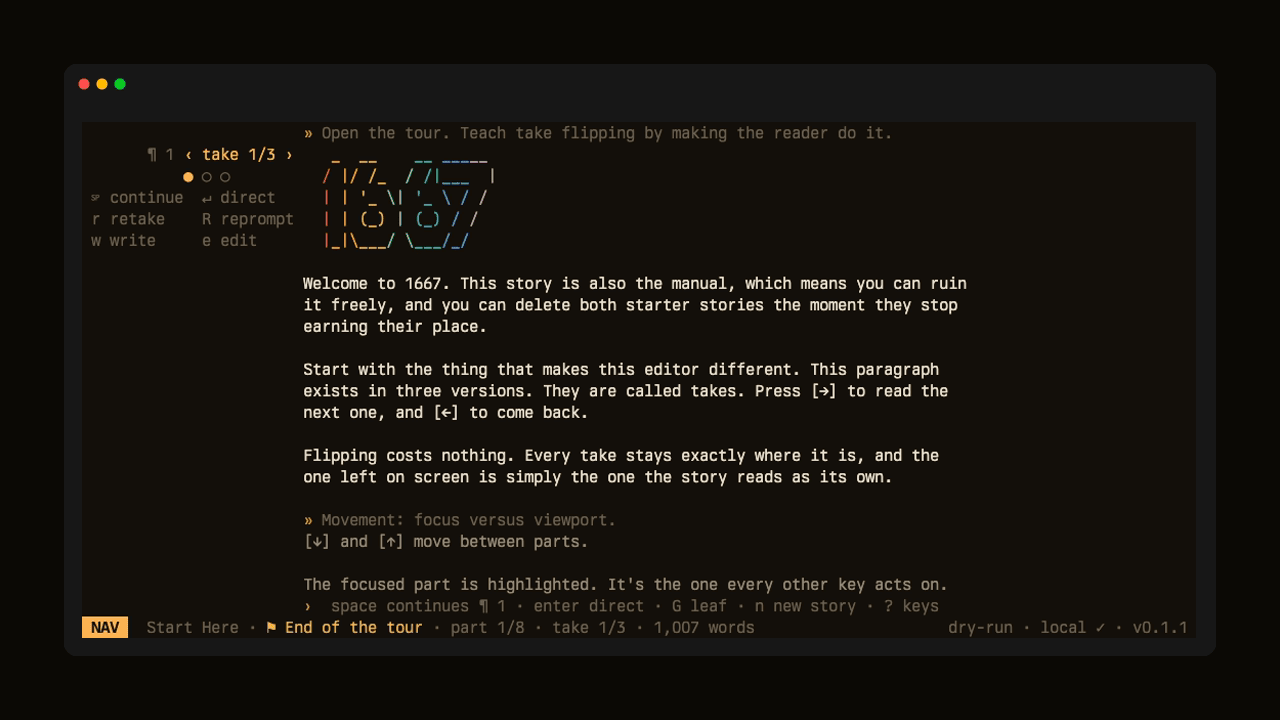
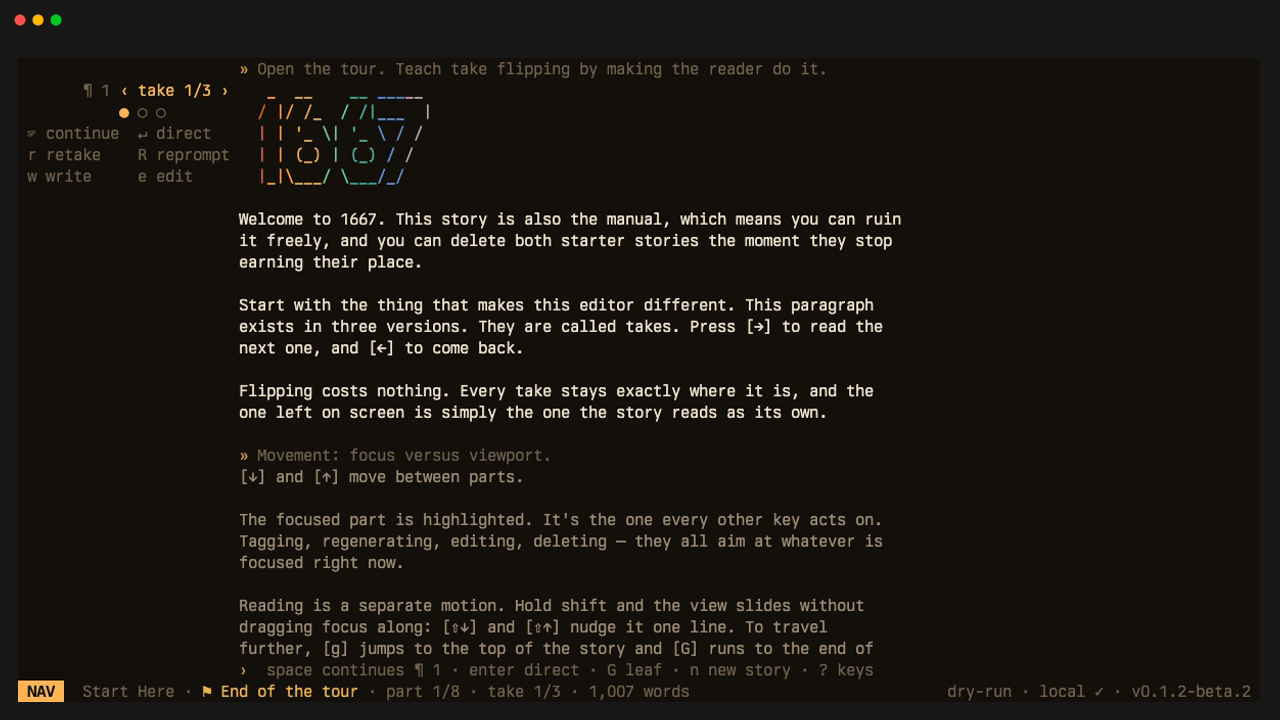
docs: simplify README and add install guidance (#159)
* docs: simplify README hero

* docs: add pre-release install guidance

diff --git a/README.md b/README.md
@@ -2,8 +2,6 @@
 
 <img src="docs/assets/1667-rainbow.svg" alt="1667" width="420">
 
-# 1667
-
 **A full-screen terminal environment for fiction writing with language models.**
 
 [![npm pre-release](https://img.shields.io/npm/v/%401667-ai%2Fcli/next?label=npm%20next)](https://www.npmjs.com/package/@1667-ai/cli)
@@ -33,6 +31,24 @@ executable.
 - Use the embedded backend worker without a network port.
 - Cancel a generation. 1667 does not change committed story data.
 - Connect to OpenAI-compatible endpoints or Anthropic Messages endpoints.
+
+## Install
+
+1667 is a pre-release. The Shell Installer is not available yet. The homepage
+publishes `install.sh` only after a release passes the Managed Installation
+gate.
+
+Install the npm pre-release globally:
+
+```sh
+npm install --global @1667-ai/cli@next
+```
+
+Or run the npm pre-release without a global installation:
+
+```sh
+npx --yes @1667-ai/cli@next
+```
 
 ## Source requirements
 
